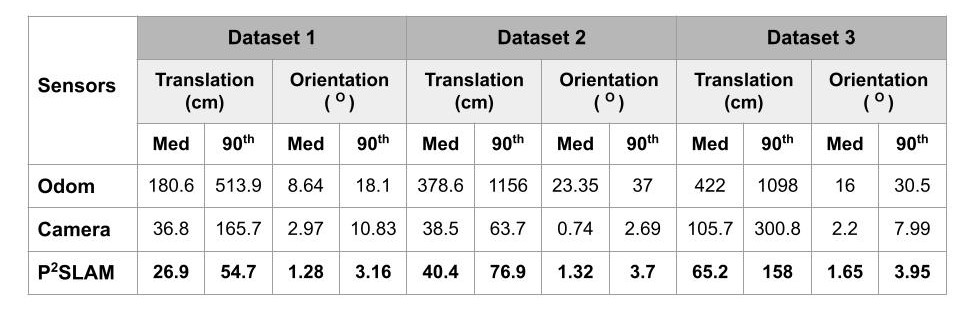
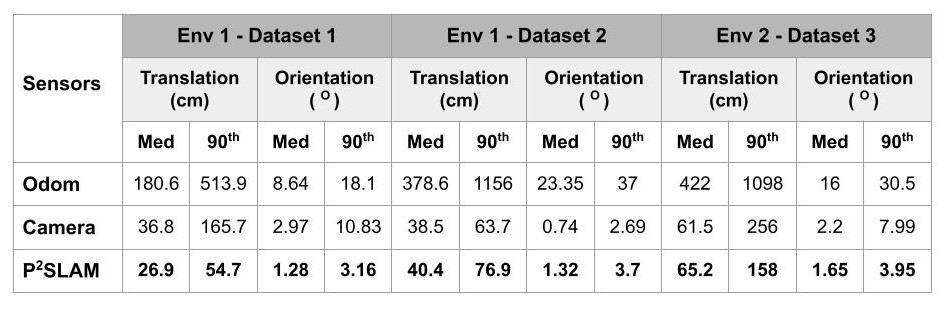
changes to p2slam dataset website

diff --git a/_pages/Research/dloc/p2slam_dataset.md b/_pages/Research/dloc/p2slam_dataset.md
@@ -15,42 +15,42 @@ Authors: Aditya Arun, Roshan Ayyalasomayajula, William Hunter, Dinesh Bharadia
 
 <div class="well">
  <center>
- <h4><A href="#documentation">Documentation</A>&emsp;&emsp;<A href="#downloads">Downloads</A>&emsp;&emsp;<a href="/p2slam-datasets">LICENSE (N/A)</a>&emsp;&emsp;<A href="#citation">CITATION (N/A)</A></h4>
+ <h4><A href="#Envrionment and Results">Environment and Results</A>&emsp;&emsp;<A href="#downloads">Downloads</A>&emsp;&emsp;</h4>
  </center>
 </div>
 
 
 ---
 
-## Documentation ##
+## Envrionment and Results ##
 
 ### Two Different Environments
 
 Here we describe the environments and the datasets collected in these environments. We further showcase P2SLAM results as compared to camera-based baseline RTABMap. We find that in all datasets inclusion of WiFi-based sensing for localization performs on par with RTABMap and makes a strong case for the inclusion of these simple sensors within SLAM systems. 
 
-<h4> 1. Atkinson Hall 4th Floor -- 20 x 30 m (65 x 100 feet) standard office environment with complex mulitpath and mulitple Non-line of sight conditions. A total of 5 AP's were deployed in this environment.  </h4>
+<h4> 1.  <b> Env-1: Atkinson Hall 4th Floor </b> -- 20 x 30 m (65 x 100 feet) standard office environment with complex mulitpath and mulitple Non-line of sight conditions. A total of 5 AP's were deployed in this environment.  </h4>
 <a href="{{ site.url }}{{ site.baseurl }}/images/respic/env1.jpg"><img src="{{ site.url }}{{ site.baseurl }}/images/respic/env1.jpg" width="100%" style="float: center" > </a>
-<p>**channels_atk_ds1**: Simple robot movement where we traverse all the corridors, for a total path length of 330 m (approx) at 18 cm/s </p>
-<img src="{{ site.url }}{{ site.baseurl }}/images/respic/results_ds1.jpg" width="50%" style="float: center" >
-<p>**channels_atk_ds2**: Complex robot movement where the robot traverses different nooks in the environment. This path closely replicate one taken by a vacuume cleaner or package delivery robot. Total path-length travelled is 495 m (approx) at 28 cm/s. </p>
-<img src="{{ site.url }}{{ site.baseurl }}/images/respic/results_ds2.jpg" width="50%" style="float: center" >
+<p>**channels_atk_ds1** (easy): Simple robot movement where we traverse all the corridors, for a total path length of 330 m (approx) at 18 cm/s. AP's are placed in the locations marked by circles in the above figure. </p>
+<a href="{{ site.url }}{{ site.baseurl }}/images/respic/results_ds1.jpg"> <center> <img src="{{ site.url }}{{ site.baseurl }}/images/respic/results_ds1.jpg" width="50%" style="float: center" > </center> </a>
+<p>**channels_atk_ds2** (hard): Complex robot movement where the robot traverses different nooks in the environment. This path closely replicate one taken by a vacuume cleaner or package delivery robot. Total path-length travelled is 495 m (approx) at 28 cm/s. AP's are placed in the locations marked by cross in the above figure.</p>
+<a href="{{ site.url }}{{ site.baseurl }}/images/respic/results_ds2.jpg"> <center> <img src="{{ site.url }}{{ site.baseurl }}/images/respic/results_ds2.jpg" width="50%" style="float: center" > </center> </a>
 
 
-<h4> 2.  Atkinson Hall Ground Floor -- 50 x 40 m large environment covering mulitple corridors and large lobbies and auditorium spaces. </h4>
+<h4> 2. <b> Env-2: Atkinson Hall Ground Floor </b> -- 50 x 40 m large environment covering mulitple corridors and large lobbies and auditorium spaces. </h4>
 <a href="{{ site.url }}{{ site.baseurl }}/images/respic/env2.jpg"><img src="{{ site.url }}{{ site.baseurl }}/images/respic/env2.jpg" width="95%" style="float: center" > </a>
 <p>**channels_atk_ds3**: Simple robot movement where mulitple corridors are traversed at 28 cm/s for a total path length of 400 m (approx) </p>
-<img src="{{ site.url }}{{ site.baseurl }}/images/respic/results_ds3.jpg" width="50%" style="float: center" >
+<a href="{{ site.url }}{{ site.baseurl }}/images/respic/results_ds3.jpg"> <center> <img src="{{ site.url }}{{ site.baseurl }}/images/respic/results_ds3.jpg" width="50%" style="float: center" > </center> </a>
 
 <p> Finally, we summarize all our results in the following table. We show the median and 90th percentile translation and orientation errors in centimeters and degrees respectively. We show across three sensing modalities -- using odometry only, using odometry + Camera (RTABMap) and using odometry + WiFi (P2SLAM): </p>
-<img src="{{ site.url }}{{ site.baseurl }}/images/respic/p2slam_results_table.jpg" width="70%" style="float: center" >
+<a href="{{ site.url }}{{ site.baseurl }}/images/respic/p2slam_results_table.jpg"> <center> <img src="{{ site.url }}{{ site.baseurl }}/images/respic/p2slam_results_table.jpg" width="70%" style="float: center" > </center> </a>
 
 ---
 
-We provide both the CSI data for all the above setups and the post-prcessed features for running our DLoc network. **All the corresponding links can be found below.**
+We provide both the CSI data for all the above setups. **All the corresponding links can be found below.**
 
 ### Channels
 
-The CSI data is named as **channels_<setup_name_from_above>.mat**. These MATLAB files are stored using **HDF5** file structure and contain the following variables:
+The CSI data is named as **DATASET_NAME.mat** as given above. These MATLAB files are stored using **HDF5** file structure and contain the following variables:
 
 - **channels_cli**: *[ n_datapoints x n_frequency x n_ap x n_rx_ant X n_tx_ant]* 5D complex channel matrix recieved at the WiFi access points deployed in the environment.
 - **channels_ap**: *[ n_datapoints x n_frequency x num_aps x n_rx_ant X n_tx_ant]* 5D complex channel matrix recieved at the WiFi access point present on the robot.
@@ -66,22 +66,24 @@ The CSI data is named as **channels_<setup_name_from_above>.mat**. These MATLAB 
 
 ## Downloads ##
 
+RAL Reviewers, please use the password given in the review-responses document to access these files. The datasets will be open-sourced upon paper's acceptance. 
+
 ### Channel Downloads:
 
-Cumulative Downloads: [All channels](https://ucsdcloud-my.sharepoint.com/:u:/g/personal/sayyalas_ucsd_edu/EfERb1sUk65CjMrSIyD1b9kB0MFKf-d57gO3d7jRses6BQ?download=1)
+Cumulative Downloads: [All channels](https://ucsdcloud-my.sharepoint.com/:f:/g/personal/aarun_ucsd_edu/Ehi2q7tR3ZlHhCamVxFX510ByrEl6aT7aA8n_61d9ToPWQ?e=1RRHLI)
 
 Individual Downloads:
-- [channels_atk_ds1](https://ucsdcloud-my.sharepoint.com/:u:/g/personal/sayyalas_ucsd_edu/Ede931QqxmxFmHwiYz_H5dwBHVH8SnB02BjfAAWpD9FXXQ?download=1)
-- [channels_atk_ds2](https://ucsdcloud-my.sharepoint.com/:u:/g/personal/sayyalas_ucsd_edu/ESiVhglOHNNPh7h5IjGSz3ABzuzyDVI-XCzWBJFouu5IoA?download=1)
-- [channels_atk_ds3](https://ucsdcloud-my.sharepoint.com/:u:/g/personal/sayyalas_ucsd_edu/ER16mpDpebhMof2Gqd-hwoEB5koMPqkf7WKFbnGzsXaoRQ?download=1)
+- [channels_atk_ds1](https://ucsdcloud-my.sharepoint.com/:u:/g/personal/aarun_ucsd_edu/EZBHoXwnUGBBgx1X-2G0g-YBpJCzFOyaEhYuwL5SShRNJA?e=3oiN1A)
+- [channels_atk_ds2](https://ucsdcloud-my.sharepoint.com/:u:/g/personal/aarun_ucsd_edu/Ef1ETWRODuxEj4RSAV-wlK4BfirvThNOviIqoYJxQalmyg?e=PBCH50)
+- [channels_atk_ds3](https://ucsdcloud-my.sharepoint.com/:u:/g/personal/aarun_ucsd_edu/EVPUpb8DFuRBoKW8r7yS7nkBRWXWP9Z03eQcX7O4XydnEg?e=9j93j4)
 
 
 <!-- #### All the dataset downloads are **PASSWORD** protected. To get the password, please read and agree to the [terms and conditions](https://forms.gle/WWGymUFxhPWRc4zu7). You can then proceed to download datasets from the links above. -->
 
 ---
-
+<!-- 
 ## CITATION ##
 
-- TBA
+- TBA -->
 
   
